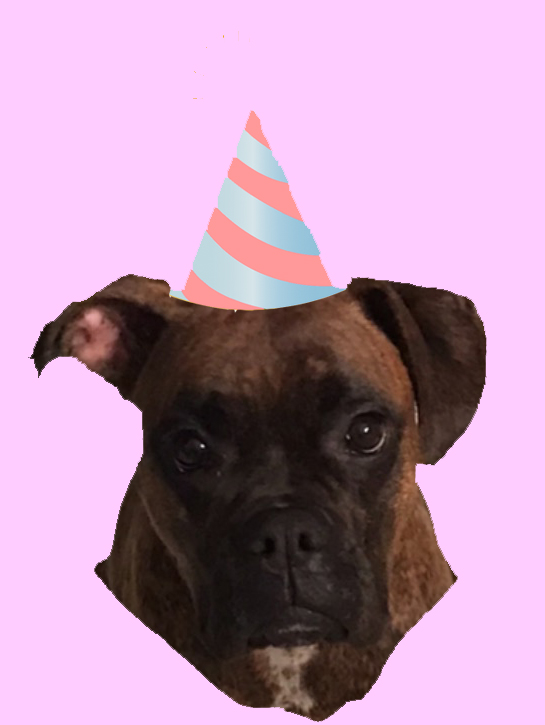
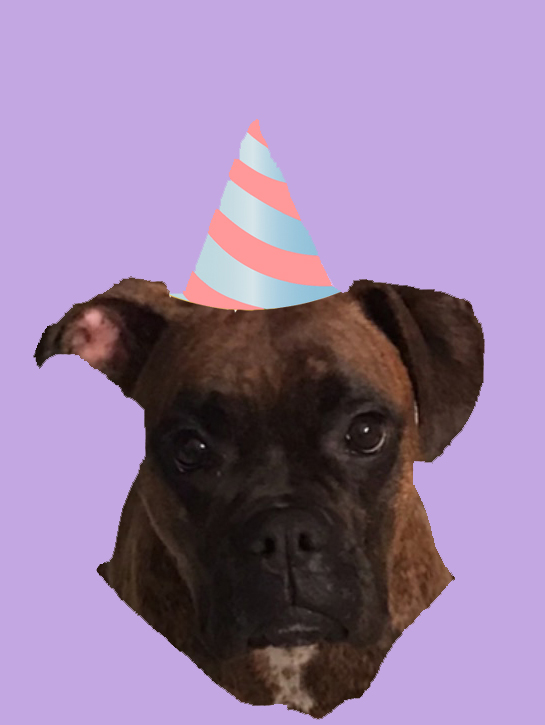
formatting changes

diff --git a/style.css b/style.css
@@ -19,7 +19,7 @@
   height: auto;
    margin-right: auto; 
    margin-left: auto;
-   margin-top: 1em;
+   /* margin-top: 1em; */
    display: block;
    padding-bottom: 8em;
    
@@ -37,14 +37,41 @@
       background-color: pink;
       
        }
- 
-  
 
+    .navbar.navbar-expand-lg.navbar-light.bg-light{
+      background-color:lavender!important;
+      }
+    .navbar-collapse{
+        background-color: lavender;
+    }
+    .navbar-nav.nav-link:hover{
+      color: pink;
+    }
+    .active>.nav-link, .navbar-light .navbar-nav .nav-link.active, .navbar-light .navbar-nav .nav-link.show, .navbar-light .navbar-nav .show>.nav-link{
+      color:pink;
+    }
+    .active>.nav-link{
+      color: darkviolet;
+    }
+    .navbar-brand{ 
+    background-color: lavender;
+      }
+      
+   
+      .navbar-brand {
+        background-color: lavender;
+      }
 
-.navbar-brand{
-  
-
-}
+    .navbar-toggler-icon{
+      background-color: lavender!important;
+    }
+    .nav-link{
+      color: darkviolet;
+    }
+    .nav.navbar.navbar-expand-lg.navbar-light.bg-light{
+      background-color: lavender;
+    }
+    
 * {
     box-sizing: border-box;
     
@@ -98,6 +125,7 @@
     text-shadow: 1px 1px 2px black;
     font-size: 20px;
     font-family: 'Gill Sans', 'Gill Sans MT', Calibri, 'Trebuchet MS', sans-serif;
+    text-shadow: 1px 1px 2px black, 0 0 25px purple, 0 0 5px darkmagenta;
     background-color: pink;
      padding: 2px 30px ; 
     color: white;
@@ -126,5 +154,7 @@
  background: linear-gradient( #A9F1DF, #FFBBBB);
  background-size: cover;
  background-size: contain;
- font-family: 'Gill Sans', 'Gill Sans MT', Calibri, 'Trebuchet MS', sans-serif
+ font-family: 'Gill Sans', 'Gill Sans MT', Calibri, 'Trebuchet MS', sans-serif;
+ font-color; white;
+
 }

diff --git a/index.html b/index.html
@@ -1,11 +1,12 @@
 <!DOCTYPE>
 <html>
 <head > 
- <link rel="stylesheet" href="https://stackpath.bootstrapcdn.com/bootstrap/4.1.2/css/bootstrap.min.css" integrity="sha384-Smlep5jCw/wG7hdkwQ/Z5nLIefveQRIY9nfy6xoR1uRYBtpZgI6339F5dgvm/e9B" crossorigin="anonymous">
-<link rel="stylesheet" type="text/css" href="style.css">
- </head>
 
+ </head>
+ 
 <body background="background.jpg" >
+    <link rel="stylesheet" type="text/css" href="style.css">
+    <link rel="stylesheet" href="https://stackpath.bootstrapcdn.com/bootstrap/4.1.2/css/bootstrap.min.css" integrity="sha384-Smlep5jCw/wG7hdkwQ/Z5nLIefveQRIY9nfy6xoR1uRYBtpZgI6339F5dgvm/e9B" crossorigin="anonymous">
 <header>
     <nav class="navbar navbar-expand-lg navbar-light bg-light">
         <a class="navbar-brand" href="#">Mia Oh My!</a>
@@ -25,10 +26,6 @@
               <a class="nav-link disabled" href="#">Meet Mia!</a>
             </li>
           </ul>
-          <form class="form-inline my-2 my-lg-0">
-            <input class="form-control mr-sm-2" type="search" placeholder="Search">
-            <button class="btn btn-outline-success my-2 my-sm-0" type="submit">Search</button>
-          </form>
         </div>
       </nav>
     </header>

diff --git a/about.html b/about.html
@@ -6,8 +6,8 @@
 
 <head>
 <div> 
-<p> <br>Mia Oh My is a craft store created by Samatha Frazier and her best gal pal Mia! </br>
-<br>If you're looking for  personalized party decorations to make your instagram friends jealous, this is the place! </br></p>
+<h1> <br>Mia Oh My! is a craft store created by Samantha Frazier and her best gal pal Mia! </br>
+<br>If you're looking for  personalized party decorations to make your Instagram friends jealous, this is the place! </br></p>
 <a class="home" href="index.html">Home</a>
 
 </style>
